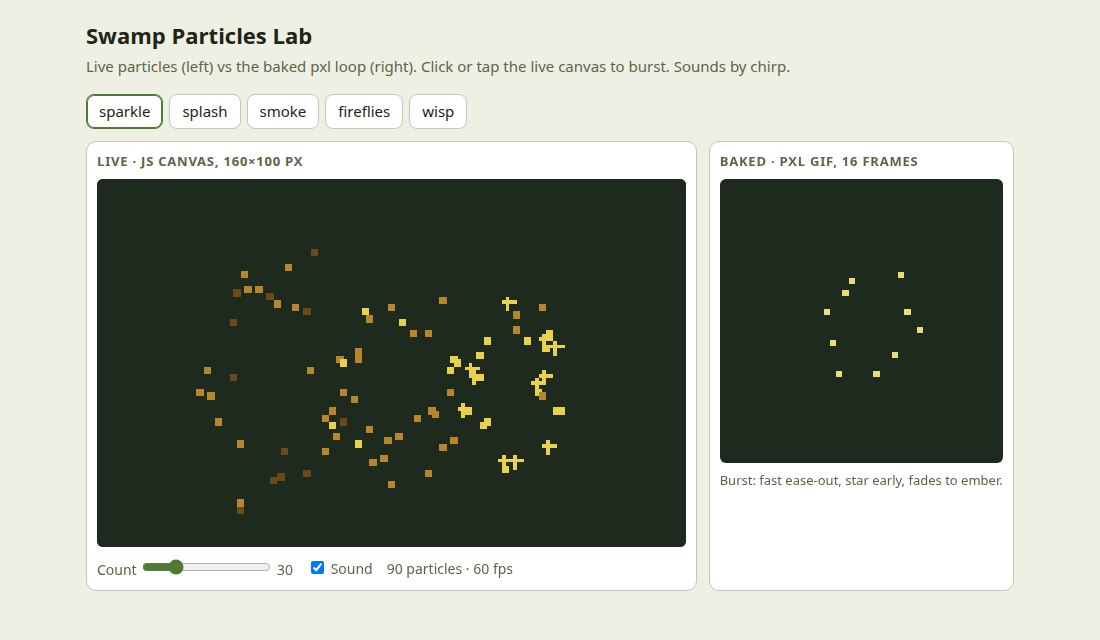
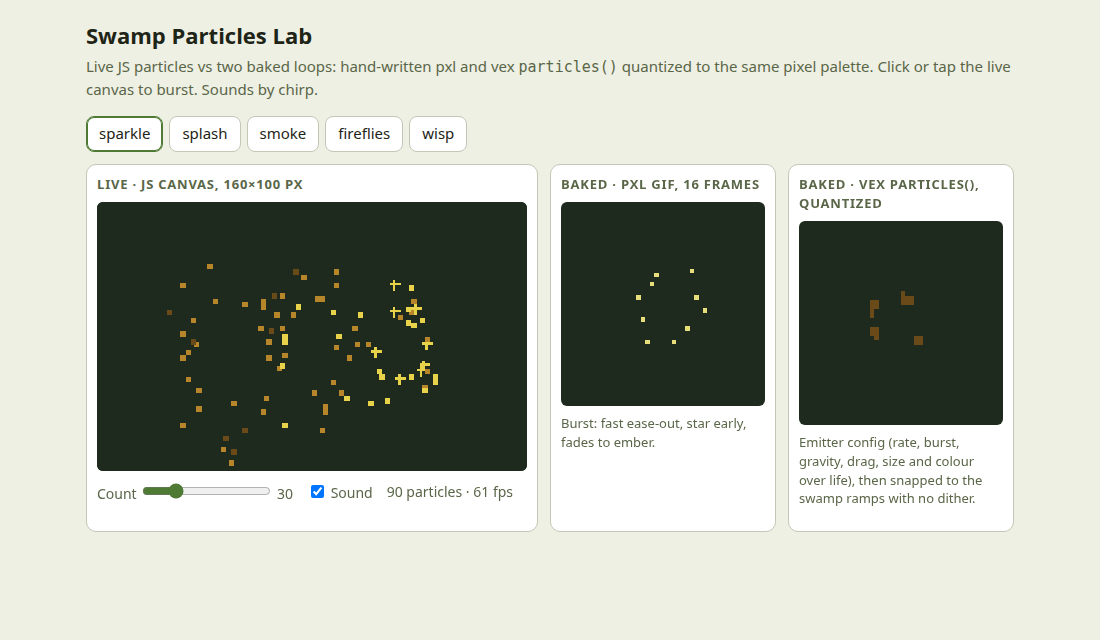
trials: vex particles() quantized to swamp ramps via image(); third column in particle lab

diff --git a/trials/2026-10-26-swamp-vfx/demo/index.html b/trials/2026-10-26-swamp-vfx/demo/index.html
@@ -11,7 +11,7 @@ h1{font-size:22px;margin:0 0 4px}p.sub{color:var(--dim);margin:0 0 16px}
 .tabs{display:flex;flex-wrap:wrap;gap:6px;margin-bottom:12px}
 .tabs button{background:var(--panel);color:var(--ink);border:1px solid var(--line);border-radius:8px;padding:6px 12px;font:inherit;cursor:pointer}
 .tabs button[aria-pressed=true]{border-color:var(--accent);box-shadow:inset 0 0 0 1px var(--accent)}
-.grid{display:grid;grid-template-columns:2fr 1fr;gap:12px}@media(max-width:640px){.grid{grid-template-columns:1fr}}
+.grid{display:grid;grid-template-columns:2fr 1fr 1fr;gap:12px}@media(max-width:860px){.grid{grid-template-columns:1fr 1fr}.grid>.card:first-child{grid-column:1/-1}}
 .card{background:var(--panel);border:1px solid var(--line);border-radius:10px;padding:10px}
 .card h2{font-size:13px;letter-spacing:.06em;text-transform:uppercase;color:var(--dim);margin:0 0 8px;font-weight:600}
 canvas,.baked img{width:100%;image-rendering:pixelated;background:#1e2a1e;border-radius:6px;display:block}
@@ -22,7 +22,7 @@ input[type=range]{accent-color:var(--accent)}
 .note{color:var(--dim);font-size:13px;margin-top:8px}
 </style></head><body><main>
 <h1>Swamp Particles Lab</h1>
-<p class="sub">Live particles (left) vs the baked pxl loop (right). Click or tap the live canvas to burst. Sounds by chirp.</p>
+<p class="sub">Live JS particles vs two baked loops: hand-written pxl and vex <code>particles()</code> quantized to the same pixel palette. Click or tap the live canvas to burst. Sounds by chirp.</p>
 <div class="tabs" id="tabs"></div>
 <div class="grid">
  <div class="card"><h2>Live · JS canvas, 160×100 px</h2><canvas id="cv" width="160" height="100"></canvas>
@@ -30,6 +30,8 @@ input[type=range]{accent-color:var(--accent)}
   <label><input id="snd" type="checkbox" checked> Sound</label><span id="fps"></span></div></div>
  <div class="card"><h2>Baked · pxl GIF, 16 frames</h2><div class="baked"><img id="gif" alt=""></div>
   <p class="note" id="desc"></p></div>
+ <div class="card"><h2>Baked · vex particles(), quantized</h2><div class="baked"><img id="vgif" alt=""></div>
+  <p class="note">Emitter config (rate, burst, gravity, drag, size and colour over life), then snapped to the swamp ramps with no dither.</p></div>
 </div>
 </main><script>
 const P='#1e2a1e',RAMPS={yel:['#6b4a1a','#b8862a','#e8d24a','#fff6c0'],wat:['#2a4f9a','#4f8ad8','#9ad8e8','#e0f6fa'],smk:['#5c5e52','#8a8c7e','#a8aa9a','#c4c6b6'],grn:['#2a7a5a','#4fc08a','#7ae8a8','#e0fff0']}
@@ -49,7 +51,7 @@ const tabs=document.getElementById('tabs')
 for(const k in FX){const b=document.createElement('button');b.textContent=k;b.onclick=()=>pick(k);tabs.append(b)}
 const au={};function snd(k){if(!document.getElementById('snd').checked)return;(au[k]||=new Audio('a/fx_'+k+'.wav'));const a=au[k];if(FX[k].loop){a.loop=true;a.volume=.6;a.play().catch(()=>{})}else{const c=a.cloneNode();c.play().catch(()=>{})}}
 function stopLoops(){for(const k in au)if(FX[k].loop)au[k].pause()}
-function pick(k){cur=k;ps=[];rings=[];stopLoops();for(const b of tabs.children)b.setAttribute('aria-pressed',b.textContent===k);document.getElementById('gif').src='a/fx_'+k+'.gif';document.getElementById('desc').textContent=FX[k].d;try{localStorage.fx=k}catch(e){}}
+function pick(k){cur=k;ps=[];rings=[];stopLoops();for(const b of tabs.children)b.setAttribute('aria-pressed',b.textContent===k);document.getElementById('gif').src='a/fx_'+k+'.gif';document.getElementById('vgif').src='a/vx_'+k+'.gif';document.getElementById('desc').textContent=FX[k].d;try{localStorage.fx=k}catch(e){}}
 cnt.oninput=()=>document.getElementById('cn').textContent=cnt.value
 document.getElementById('snd').onchange=e=>{if(!e.target.checked)stopLoops()}
 cv.addEventListener('pointerdown',e=>{const b=cv.getBoundingClientRect(),x=(e.clientX-b.left)/b.width*160,y=(e.clientY-b.top)/b.height*100;FX[cur].spawn(x,y,+cnt.value);snd(cur)})

diff --git a/trials/2026-10-26-swamp-vfx/demo/artifact.html b/trials/2026-10-26-swamp-vfx/demo/artifact.html
@@ -11,7 +11,7 @@ h1{font-size:22px;margin:0 0 4px}p.sub{color:var(--dim);margin:0 0 16px}
 .tabs{display:flex;flex-wrap:wrap;gap:6px;margin-bottom:12px}
 .tabs button{background:var(--panel);color:var(--ink);border:1px solid var(--line);border-radius:8px;padding:6px 12px;font:inherit;cursor:pointer}
 .tabs button[aria-pressed=true]{border-color:var(--accent);box-shadow:inset 0 0 0 1px var(--accent)}
-.grid{display:grid;grid-template-columns:2fr 1fr;gap:12px}@media(max-width:640px){.grid{grid-template-columns:1fr}}
+.grid{display:grid;grid-template-columns:2fr 1fr 1fr;gap:12px}@media(max-width:860px){.grid{grid-template-columns:1fr 1fr}.grid>.card:first-child{grid-column:1/-1}}
 .card{background:var(--panel);border:1px solid var(--line);border-radius:10px;padding:10px}
 .card h2{font-size:13px;letter-spacing:.06em;text-transform:uppercase;color:var(--dim);margin:0 0 8px;font-weight:600}
 canvas,.baked img{width:100%;image-rendering:pixelated;background:#1e2a1e;border-radius:6px;display:block}
@@ -22,7 +22,7 @@ input[type=range]{accent-color:var(--accent)}
 .note{color:var(--dim);font-size:13px;margin-top:8px}
 </style><main>
 <h1>Swamp Particles Lab</h1>
-<p class="sub">Live particles (left) vs the baked pxl loop (right). Click or tap the live canvas to burst. Sounds by chirp.</p>
+<p class="sub">Live JS particles vs two baked loops: hand-written pxl and vex <code>particles()</code> quantized to the same pixel palette. Click or tap the live canvas to burst. Sounds by chirp.</p>
 <div class="tabs" id="tabs"></div>
 <div class="grid">
  <div class="card"><h2>Live · JS canvas, 160×100 px</h2><canvas id="cv" width="160" height="100"></canvas>
@@ -30,6 +30,8 @@ input[type=range]{accent-color:var(--accent)}
   <label><input id="snd" type="checkbox" checked> Sound</label><span id="fps"></span></div></div>
  <div class="card"><h2>Baked · pxl GIF, 16 frames</h2><div class="baked"><img id="gif" alt=""></div>
   <p class="note" id="desc"></p></div>
+ <div class="card"><h2>Baked · vex particles(), quantized</h2><div class="baked"><img id="vgif" alt=""></div>
+  <p class="note">Emitter config (rate, burst, gravity, drag, size and colour over life), then snapped to the swamp ramps with no dither.</p></div>
 </div>
 </main><script>
 const P='#1e2a1e',RAMPS={yel:['#6b4a1a','#b8862a','#e8d24a','#fff6c0'],wat:['#2a4f9a','#4f8ad8','#9ad8e8','#e0f6fa'],smk:['#5c5e52','#8a8c7e','#a8aa9a','#c4c6b6'],grn:['#2a7a5a','#4fc08a','#7ae8a8','#e0fff0']}
@@ -49,7 +51,7 @@ const tabs=document.getElementById('tabs')
 for(const k in FX){const b=document.createElement('button');b.textContent=k;b.onclick=()=>pick(k);tabs.append(b)}
 const au={};function snd(k){if(!document.getElementById('snd').checked)return;(au[k]||=new Audio('a/fx_'+k+'.wav'));const a=au[k];if(FX[k].loop){a.loop=true;a.volume=.6;a.play().catch(()=>{})}else{const c=a.cloneNode();c.play().catch(()=>{})}}
 function stopLoops(){for(const k in au)if(FX[k].loop)au[k].pause()}
-function pick(k){cur=k;ps=[];rings=[];stopLoops();for(const b of tabs.children)b.setAttribute('aria-pressed',b.textContent===k);document.getElementById('gif').src='a/fx_'+k+'.gif';document.getElementById('desc').textContent=FX[k].d;try{localStorage.fx=k}catch(e){}}
+function pick(k){cur=k;ps=[];rings=[];stopLoops();for(const b of tabs.children)b.setAttribute('aria-pressed',b.textContent===k);document.getElementById('gif').src='a/fx_'+k+'.gif';document.getElementById('vgif').src='a/vx_'+k+'.gif';document.getElementById('desc').textContent=FX[k].d;try{localStorage.fx=k}catch(e){}}
 cnt.oninput=()=>document.getElementById('cn').textContent=cnt.value
 document.getElementById('snd').onchange=e=>{if(!e.target.checked)stopLoops()}
 cv.addEventListener('pointerdown',e=>{const b=cv.getBoundingClientRect(),x=(e.clientX-b.left)/b.width*160,y=(e.clientY-b.top)/b.height*100;FX[cur].spawn(x,y,+cnt.value);snd(cur)})

diff --git a/trials/2026-10-26-swamp-vfx/vex-q/vexq.px.js b/trials/2026-10-26-swamp-vfx/vex-q/vexq.px.js
@@ -1,0 +1,7 @@
+// vex particles() output (vex trials/2026-10-26-swamp-vfx) quantized to the pxl swamp ramps: nearest colour, no dither.
+pal({ n: "#1e2a1e", a: "#6b4a1a", b: "#b8862a", c: "#e8d24a", d: "#fff6c0", e: "#2a4f9a", f: "#4f8ad8", g: "#9ad8e8", h: "#e0f6fa",
+  i: "#5c5e52", j: "#8a8c7e", l: "#a8aa9a", m: "#c4c6b6", o: "#2a7a5a", p: "#4fc08a", q: "#7ae8a8", r: "#e0fff0" })
+const FX = { fireflies: [40, 32, "nabcd"], splash: [32, 24, "nefgh"], sparkle: [32, 32, "nabcd"], smoke: [24, 40, "nijlm"], wisp: [24, 32, "nopqr"] }
+for (const [k, [w, h, keys]] of Object.entries(FX))
+  anim("vx_" + k, { w, h, fps: 16 }, ...Array.from({ length: 16 }, (_, i) =>
+    frame(image(`frames/${k}_${String(i).padStart(2, "0")}.png`, 0, 0, { w, h, palette: keys }))))
